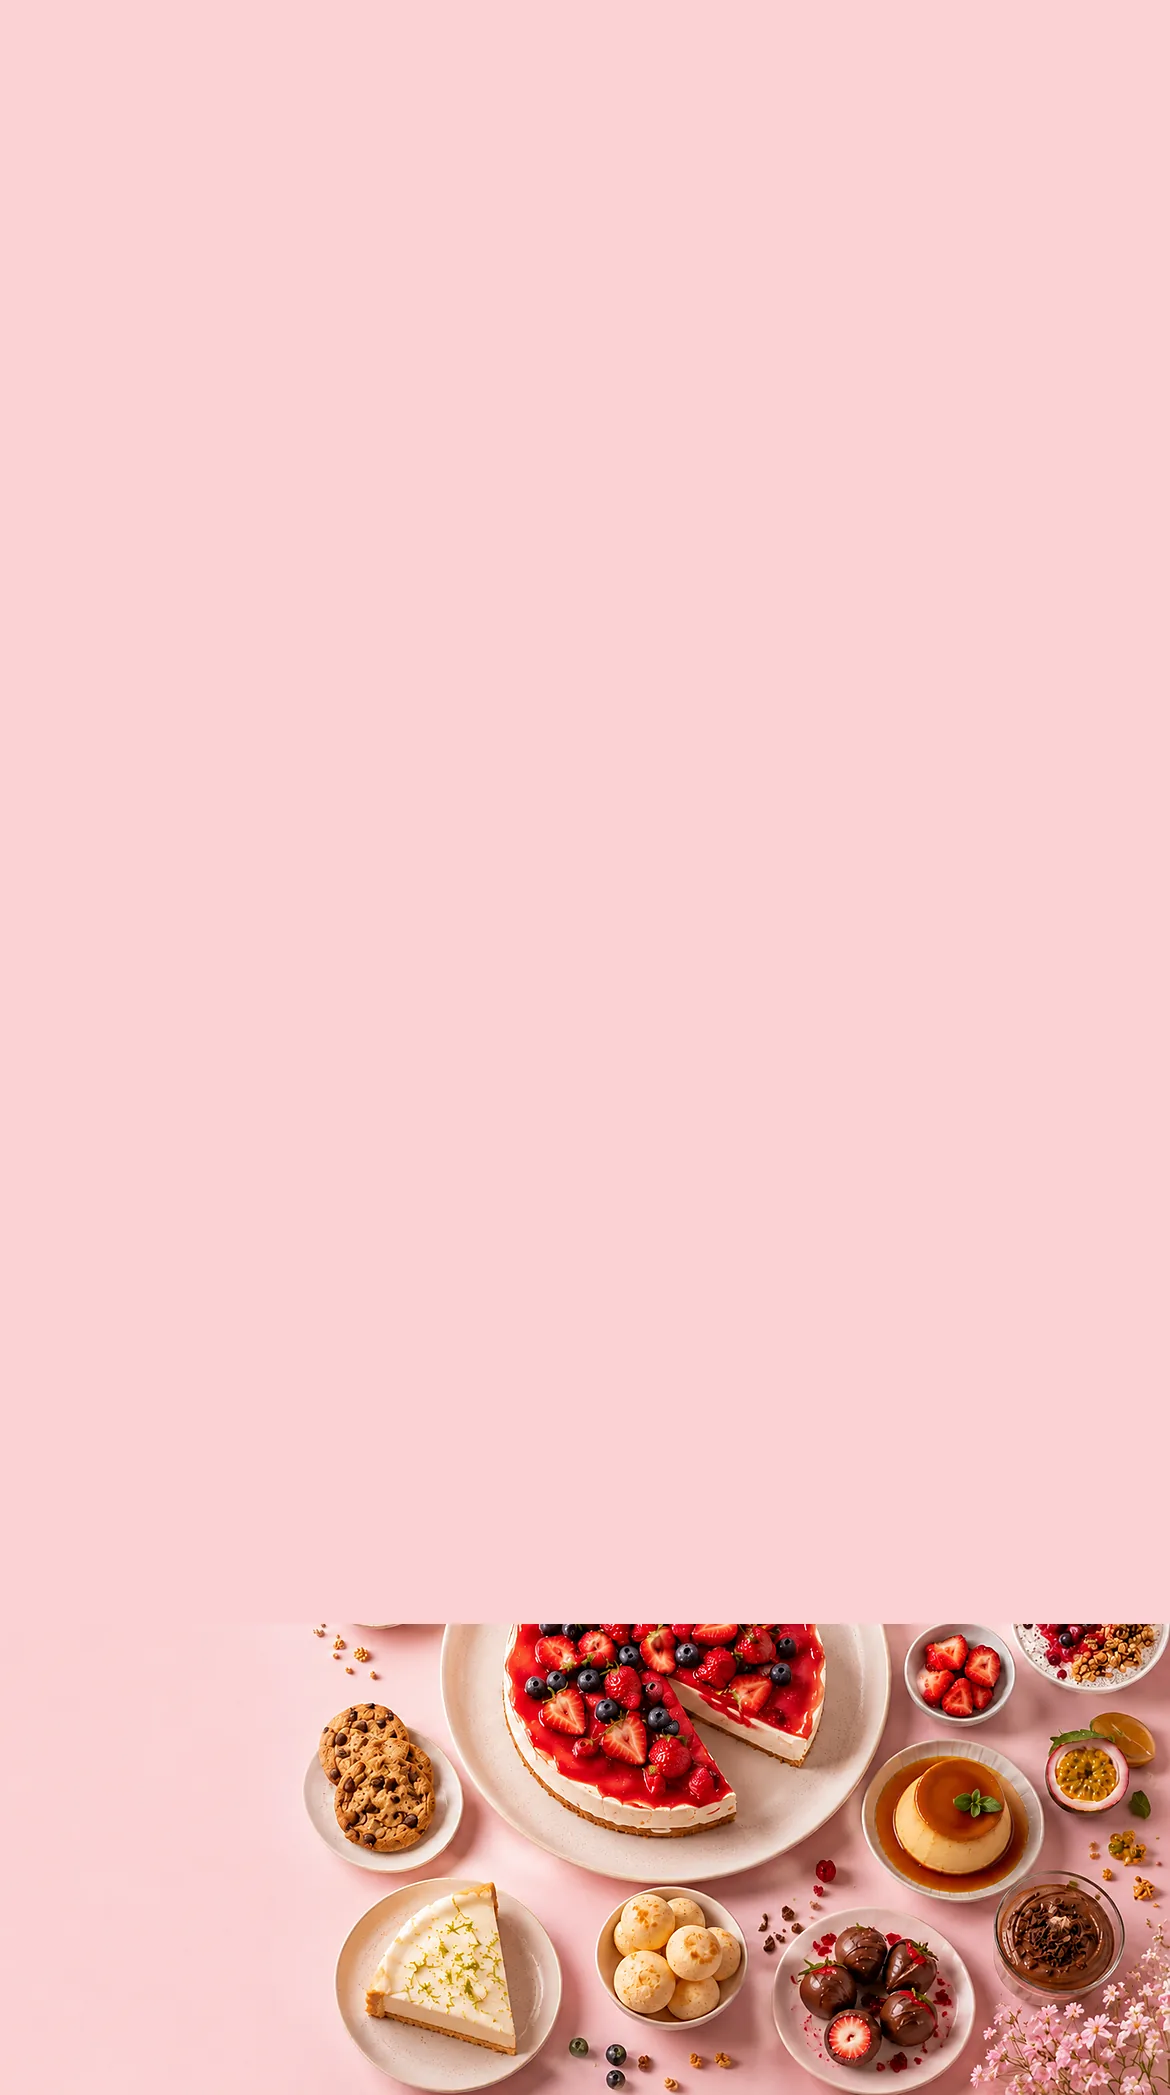
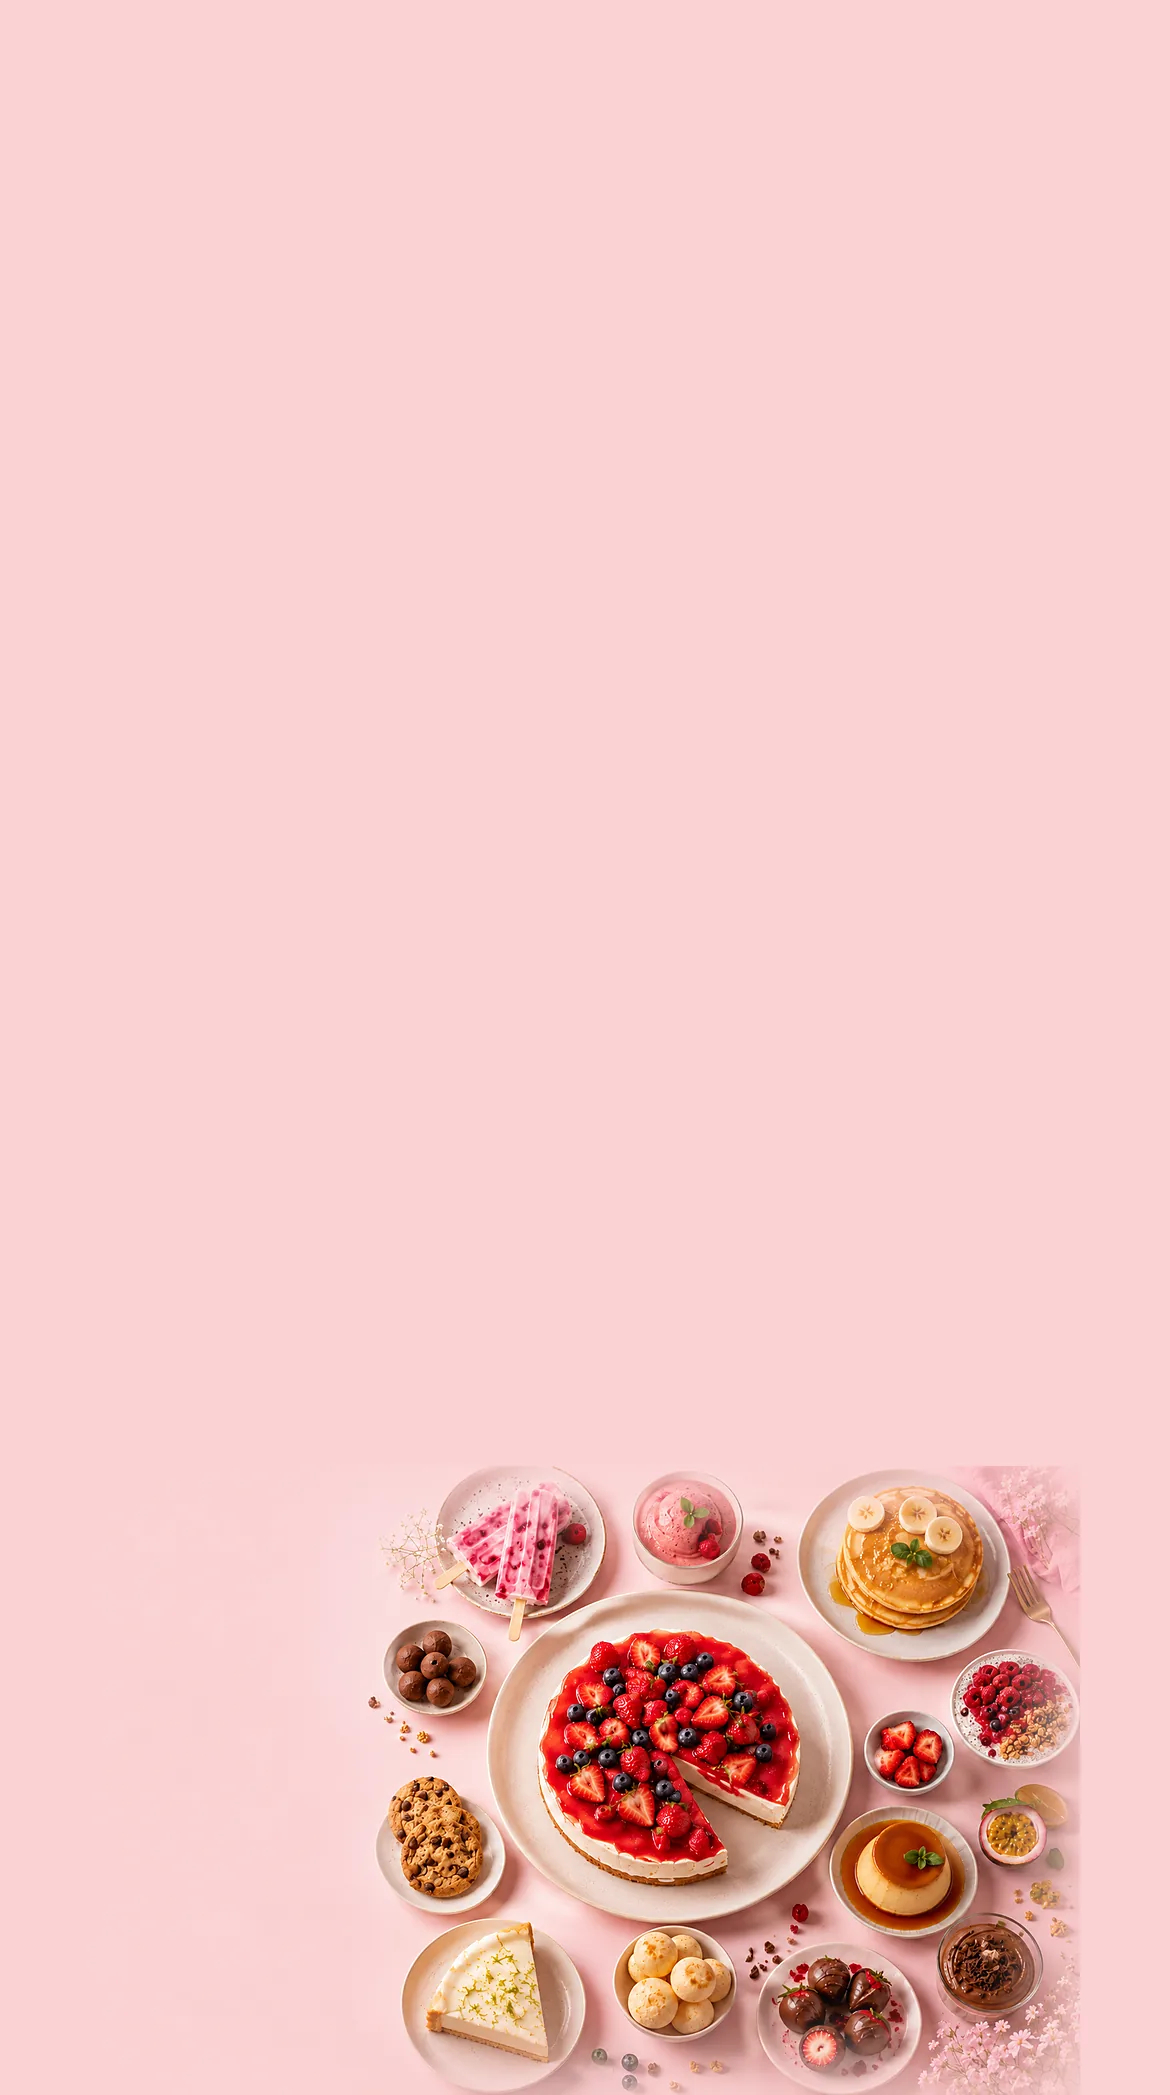
Hero mobile com a composicao completa + correcao de negrito falso
HERO MOBILE
Mostrava so' uma TIRA recortada da parte de baixo da arte. Agora mostra
a composicao INTEIRA, como o desktop, ocupando 85% da largura (era
63%), com as bordas esfumadas para dissolver no campo rosa.

O limite continua fisico: a arte e' 16:9 e a tela e' retrato, entao o
lado-a-lado do desktop (texto a esquerda / foto a direita) nao tem como
ser reproduzido — o que se iguala e' a fotografia. E a comida nao pode
subir alem de 70% da altura: medido, o texto mais baixo fica a 9px dela.

NEGRITO FALSO (bug pre-existente, 107 elementos)
43 regras pediam font-weight 700/800 sem declarar familia, caindo no
Inter — que aqui carrega so' 400/500/600. O navegador sintetizava o
negrito, empastando os rotulos pequenos em caixa alta.

Corrigido sem adicionar bytes: esses elementos (kickers, badges, tags,
numeros, abas, precos) passaram para Poppins, ja' carregado em
600/700/800 e apropriado por serem display. Enfase inline em texto
corrido virou font-weight:600. Resultado: 0 negrito sintetizado.

CONTRASTE
--rose-deep escurecido de #AD3159 para #A32D53: com as nuvens mais
presentes, o pior fundo sob um kicker e' rgb(237,207,211) e o tom
anterior caia para 4,31:1. A citacao da secao de identificacao saiu de
--rose-strong (cor de acao) para --rose-deep pelo mesmo motivo: 4,46:1.

Auditoria em 320/375/430/1440px: 0 falhas, menor margem da pagina +0,54.

Changed region(s): [[0.2462, 0.6826, 1.0, 1.0]]

diff --git a/index.html b/index.html
@@ -105,11 +105,12 @@ fbq('track', 'PageView');
 
   /* MARCA — rosa */
   --rose-darker:#7E2744;   /* topbar e rodapé — texto claro 8,66:1 */
-  --rose-deep:#AD3159;     /* rosa da marca. Bg c/ branco 6,25:1; como
-                              TEXTO: off-white 5,83:1, blush 4,86:1.
-                              (o #B23A63 dava 4,44:1 sobre blush e
-                              reprovava AA nos kickers da seção
-                              financeira — por isso este tom) */
+  /* Escurecido de #AD3159 (que já vinha de #B23A63). Com as nuvens
+     mais presentes, o pior fundo sob um kicker é rgb(237,207,211) — na
+     faixa rosa logo abaixo do hero — e ali o #AD3159 caía para 4,31:1.
+     Este dá 4,74:1. Como também é fundo de botão, branco sobre ele
+     melhorou junto (6,25 → ~6,9). */
+  --rose-deep:#A32D53;
   --rose-strong:#C42A63;   /* atenção: CTA e destaque da headline.
                               Bg c/ branco 5,44:1; texto/off-white 5,07:1.
                               (o #E23F76 da referência dava só 4,03:1
@@ -216,6 +217,37 @@ ul{padding:0;list-style:none}
      foto escura lê como censura e rouba o contraste do texto branco. */
   background:linear-gradient(transparent 86%,rgba(214,110,147,.9) 86%);
   padding:0 .04em;
+}
+
+/* ─── CORREÇÃO DE PESO TIPOGRÁFICO ──────────────────────────────
+   43 regras pediam font-weight 700/800 sem declarar família, caindo
+   no Inter — que aqui carrega só 400/500/600. O navegador então
+   SINTETIZAVA o negrito (faux bold), que empasta justamente nos
+   rótulos pequenos em caixa alta.
+
+   Em vez de baixar mais dois arquivos de fonte (Inter 700/800, ~40 KB
+   numa página de tráfego pago), estes elementos passam para Poppins,
+   que JÁ está carregado em 600/700/800. São todos rótulos, números,
+   badges e chamadas — display, não texto de leitura —, então a família
+   de display é a escolha certa para eles.
+
+   ⚠ Se algum destes voltar para Inter, ou reaparece o negrito falso
+   ou é preciso adicionar os pesos na URL do Google Fonts. */
+/* Ênfase dentro de texto corrido: o negrito padrão do navegador é 700,
+   que o Inter aqui não tem. 600 é o semibold real, sem síntese. As
+   regras de classe abaixo têm especificidade maior e mantêm seus
+   próprios pesos. */
+b,strong{font-weight:600}
+
+.kicker,.topbar,.topbar b,.hero__badge,.beats li.is-key,
+.offer__tag,.price__cur,.price__val,.price__cents,.price__pay,
+.trust li,.urgency__label,.countdown b,.countdown span,
+.seal b,.seal span,summary,.sticky-bar__info s,.sticky-bar__info b,
+.poll__opt,.poll__fix,.versus__lbl,.facts li,
+.prep__steps li,.pages figcaption,.autora__mono,.autora__papel,
+.tab,.recipes .n,.sig__mono,.sig__ig,.mock__selo b,.mock__selo span,
+.mock__pg figcaption,.mat-nums b,.mat-nums span{
+  font-family:var(--font-head);
 }
 
 /* ─── 4. BOTÕES ─────────────────────────────────────────────── */
@@ -497,7 +529,11 @@ ul{padding:0;list-style:none}
 }
 .beats li.is-key{color:var(--ink);font-weight:700}
 .beats li.is-quote{
-  font-style:italic;color:var(--rose-strong);font-weight:600;
+  /* --rose-strong (cor de AÇÃO) dava 4,46:1 aqui: esta seção fica logo
+     abaixo do hero, onde o degradê está no seu ponto mais rosa — o
+     fundo mais escuro para um texto rosa. O tom da marca resolve sem
+     mexer na cor dos botões. */
+  font-style:italic;color:var(--rose-deep);font-weight:600;
 }
 
 /* ─── 6.4 CHECKLIST ─────────────────────────────────────────── */
@@ -1546,7 +1582,7 @@ a:focus-visible,button:focus-visible,summary:focus-visible,[tabindex]:focus-visi
              alt="Dra. Helena Azevedo na cozinha, apoiada na bancada com frutas frescas">
       </div>
 
-      <p style="font-weight:700;color:var(--rose-deep)">
+      <p style="font-weight:600;color:var(--rose-deep)">
         Veja os conteúdos, as dicas e os bastidores no Instagram dela.</p>
 
       <a class="btn btn--ig" href="https://www.instagram.com/dra.helenaazevedo/" target="_blank" rel="noopener noreferrer">
